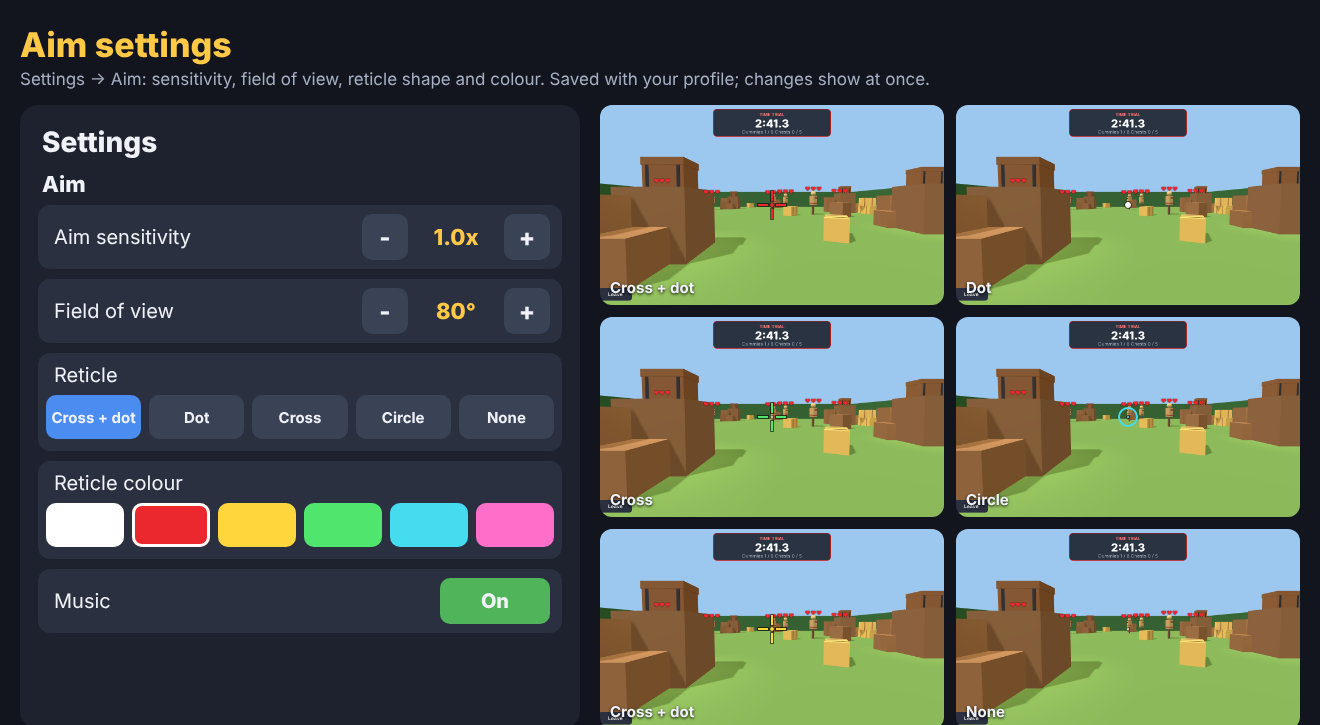
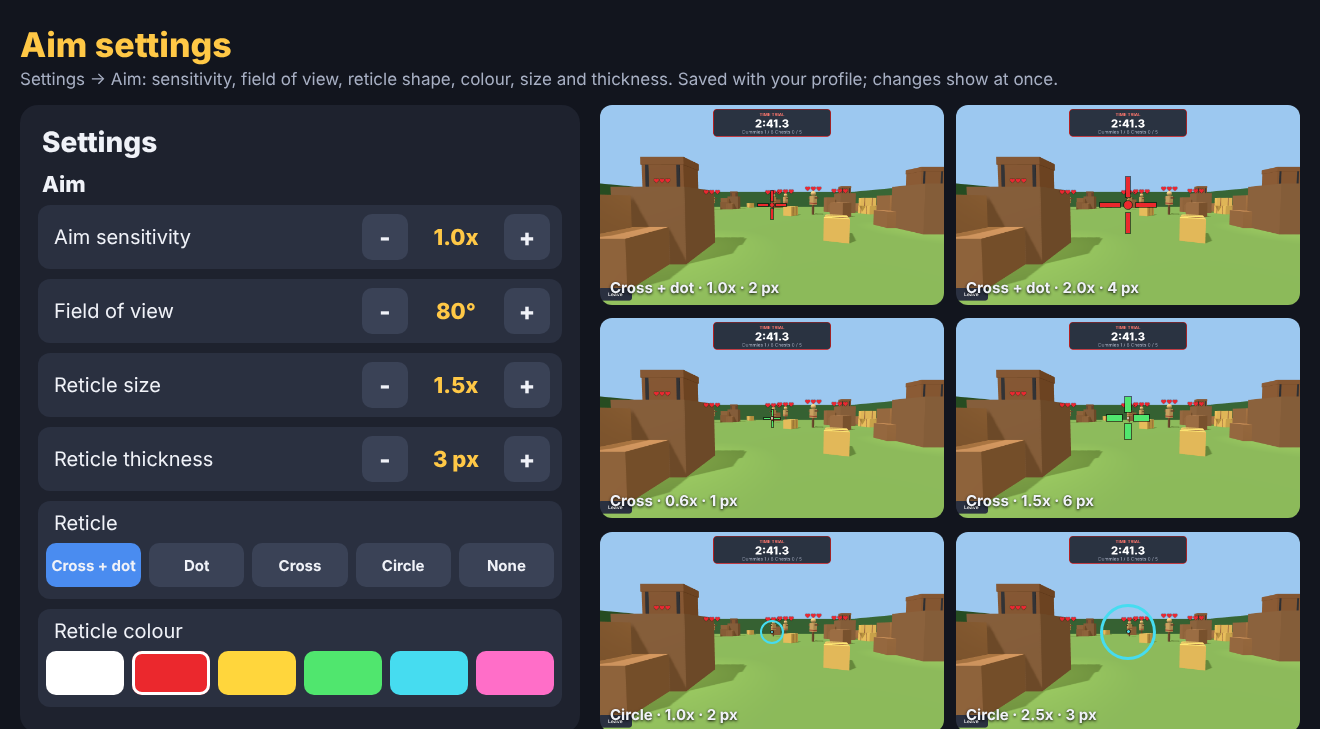
Needle Hunt: reticle size and thickness settings
Config.Aim.reticleSize (0.5x-2.5x) and reticleThickness (1-6 px), in Settings under Aim,
saved and checked like the other aim settings; client/Aim scales the arms, gap, dot and
circle to match.

Claude-Session: https://claude.ai/code/session_01Pc99SnYik9QUxnGfKmqEUa

diff --git a/needle-hunt/dev/test_rules.py b/needle-hunt/dev/test_rules.py
@@ -332,6 +332,10 @@ class BoxOpenings(unittest.TestCase):
         for lo, hi, step, default in (sens, fov):
             self.assertTrue(lo < default < hi and step > 0)
         self.assertEqual(fov[3], 70, "Roblox's own field of view is the default")
+        for key in ("reticleSize", "reticleThickness"):
+            lo, hi, step, default = [float(v) for v in re.search(key + r" = \{ ([\d., ]+) \}", block).group(1).split(",")]
+            self.assertTrue(0 < lo <= default <= hi and step > 0, key)
+        self.assertIn("reticleThickness", (ROOT / "src" / "client" / "Screens2.luau").read_text(), "players can change it")
         self.assertIn('"none"', block, "the reticle can be hidden")
         aim = (SHARED / "AimSettings.luau").read_text()
         self.assertIn("math.clamp", aim)

diff --git a/needle-hunt/README.md b/needle-hunt/README.md
@@ -437,6 +437,7 @@ Settings, **Aim** (`client/Aim`, `Config.Aim`, checked by `shared/AimSettings` o
 - **Field of view** 60° to 100° (Roblox's default is 70°). Dashes and finds kick it and come back to yours.
 - **Reticle** in the middle of the screen in first person: Cross + dot, Dot, Cross, Circle or None,
   in white, red, yellow, green, cyan or pink, with a thin dark edge so it reads on any background.
+- **Reticle size** 0.5x to 2.5x and **reticle thickness** 1 to 6 pixels.
 Changes show at once and are saved with the player's profile. Preview: `previews/aim_settings.png`.
 
 ## Practice Yard: Time Trial
